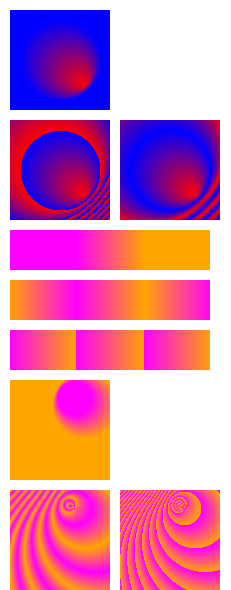
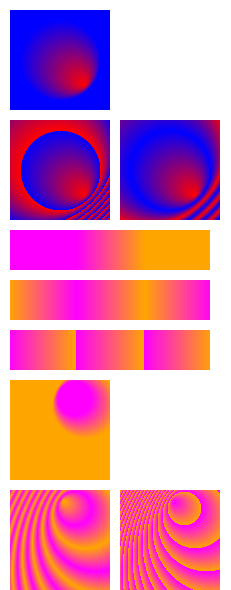
Tests/LibWeb: Update reference for svg-gradient-spreadMethod.html

Changed region(s): [[0.0303, 0.8237, 0.3939, 1.0], [0.5152, 0.8237, 0.8485, 1.0], [0.7273, 0.8237, 0.8485, 0.8847]]

diff --git a/Tests/LibWeb/Ref/svg-gradient-spreadMethod.html b/Tests/LibWeb/Ref/svg-gradient-spreadMethod.html
@@ -53,9 +53,6 @@
   <rect x="10" y="230" width="200" height="40" fill="url(#LinearPad)" />
   <rect x="10" y="280" width="200" height="40" fill="url(#LinearReflect)" />
   <rect x="10" y="330" width="200" height="40" fill="url(#LinearRepeat)" />
-  <!-- FIXME: The following three gradients are not correctly rendered
-    (see FIXME in GradientPainting.cpp/create_radial_gradient_between_two_circles())
-  -->
   <rect fill="url(#RadialPadFocalOffCenter)" x="10" y="380" width="100" height="100" />
   <rect fill="url(#RadialReflectFocalOffCenter)" x="10" y="490" width="100" height="100" />
   <rect fill="url(#RadialRepeatFocalOffCenter)" x="120" y="490" width="100" height="100" />